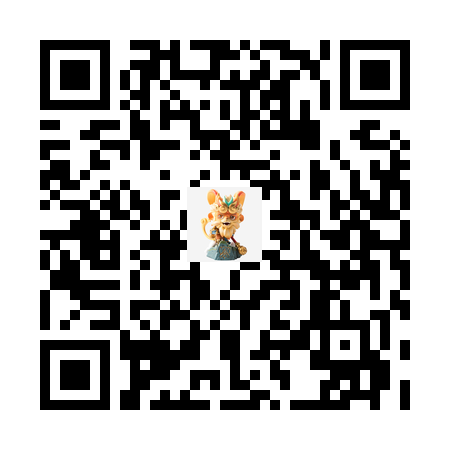
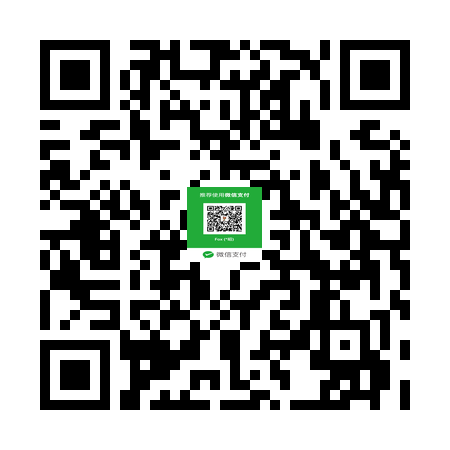
ready02

Changed region(s): [[0.4044, 0.4044, 0.5911, 0.5911]]

diff --git a/hello/templates/hello/index.html b/hello/templates/hello/index.html
@@ -107,14 +107,21 @@
             document.getElementById("wechat_name").style.backgroundColor= "#229F2B";
             document.getElementById("wx_val").value = e;
         } else {
-            alert("微信收款二维码错误，请重新上传")
+            alert("微信收款二维码错误，请重新上传");
             document.getElementById("wechat_name").style.backgroundColor= "red";
             document.getElementById("wx_val").value = '';
         }
     }
 
     function addLogo(e) {
-        document.getElementById("logo_img").style.backgroundColor= "yellowgreen";
+        var selectedFile = document.getElementById("alipay").files[0];
+        if (selectedFile.size < 1024*1024) {
+            document.getElementById("logo_img").style.backgroundColor= "yellowgreen";
+        } else {
+            alert("亲，换张小点儿的LOGO");
+            document.getElementById("logo_img").style.backgroundColor= "red";
+        }
+
     }
 
 </script>

diff --git a/hello/views.py b/hello/views.py
@@ -118,6 +118,7 @@ def addLogo(img, logo):
     try:
         img = img.convert("RGBA")
         icon = Image.open(logo)
+        icon = icon.convert("RGBA")
         img_w, img_h = img.size
         factor = 6
         size_w = int(img_w / factor)
